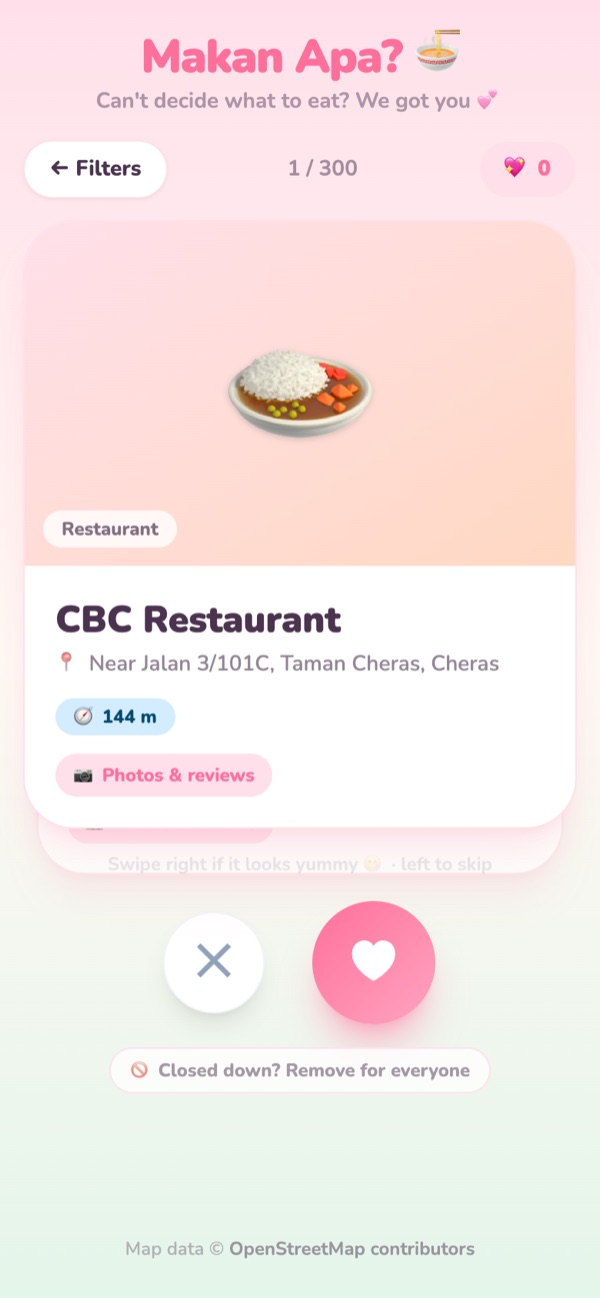
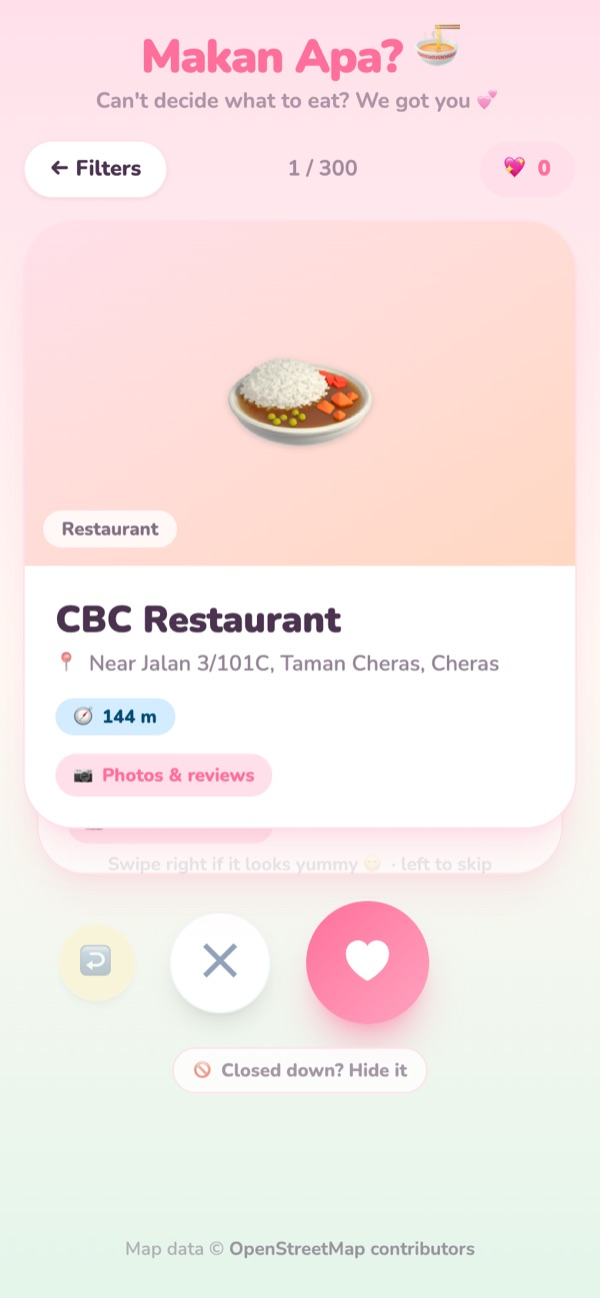
Hide closed places on your own phone instead of for everyone
A shared list meant one person could remove places for all users on purpose.
Now "Closed down? Hide it" hides the place on that phone only (localStorage),
and nothing another user does can hide a place for you. The removal is still
reported to the server (place id, name and type only) so the maintainer can
see which places people say have closed.

Also updates the README and the three screenshots that showed the old label.

diff --git a/src/hooks/useRemovedPlaces.js b/src/hooks/useRemovedPlaces.js
@@ -1,15 +1,17 @@
-import { useEffect, useState } from 'react'
-import { fetchRemoved, reportRemoved, restoreRemovedPlace } from '../services/removed'
-import { mergeRemoved, withEntry, withoutId } from '../utils/removedList'
+import { useState } from 'react'
+import { reportClosed, withdrawReport } from '../services/removed'
+import { withEntry, withoutId } from '../utils/removedList'
 
 // Places removed because they closed down (the free map rarely knows).
-//   - Shared mode: the list lives on our server, so a removal is for EVERYONE.
-//   - Phone-only mode: if the shared list isn't set up (or can't be reached),
-//     the list is kept on this phone in localStorage, so the app still works.
 //
-// The phone's list is also an "outbox": a removal stays in it until the server
-// has confirmed it. So removals made before the shared list existed, or while
-// offline, are sent up the next time the app opens — instead of coming back.
+// The list is PER PHONE: removing a place hides it on this phone only. It used to
+// hide the place for everyone, but then one person could wipe out places for all
+// users on purpose. Your own list is kept in localStorage, so it survives closing
+// the app.
+//
+// A removal is also REPORTED to our server (only the place's id, name and type —
+// nothing about you). Nobody else's app is changed by it; the reports just show
+// which places people say have closed.
 const LOCAL_KEY = 'makan-picker:removed-places'
 
 function loadLocal() {
@@ -29,54 +31,24 @@ function saveLocal(list) {
   }
 }
 
-/** Sends one removal to the server; once it's saved there, it leaves the phone's outbox. */
-function upload(entry) {
-  reportRemoved(entry)
-    .then(() => saveLocal(withoutId(loadLocal(), entry.id)))
-    .catch(() => {}) // still in the outbox -> tried again next time the app opens
-}
-
 export function useRemovedPlaces() {
   const [removed, setRemoved] = useState(loadLocal)
-  const [isShared, setIsShared] = useState(false)
 
-  // Once, when the app opens: load the shared list. If it fails, stay phone-only.
-  useEffect(() => {
-    let cancelled = false
-    fetchRemoved()
-      .then((shared) => {
-        if (cancelled) return
-        const onThisPhone = loadLocal()
-        setRemoved(mergeRemoved(shared, onThisPhone))
-        setIsShared(true)
-
-        // Removals the server doesn't have yet: send them up now.
-        const sharedIds = new Set(shared.map((e) => e.id))
-        onThisPhone.filter((e) => !sharedIds.has(e.id)).forEach(upload)
-        // The rest are already saved for everyone, so they can leave the outbox.
-        saveLocal(onThisPhone.filter((e) => !sharedIds.has(e.id)))
-      })
-      .catch(() => {}) // not set up / offline -> keep the phone-only list
-    return () => {
-      cancelled = true
-    }
-  }, [])
-
-  /** Remove a closed place (for everyone in shared mode). */
+  /** Hide a closed place on this phone. */
   function removePlace(place) {
     const entry = { id: place.id, name: place.name, category: place.category, removedAt: Date.now() }
-    // "Optimistic update": hide it on screen straight away, then tell the server.
     setRemoved((prev) => withEntry(prev, entry))
-    saveLocal(withEntry(loadLocal(), entry)) // kept on the phone until the server confirms
-    if (isShared) upload(entry)
+    saveLocal(withEntry(loadLocal(), entry))
+    // Fire and forget: if the report fails, your own list still hides the place.
+    reportClosed(entry).catch(() => {})
   }
 
-  /** Bring a place back (e.g. someone removed it by mistake). */
+  /** Bring a place back (e.g. you removed it by mistake). */
   function restorePlace(id) {
     setRemoved((prev) => withoutId(prev, id))
     saveLocal(withoutId(loadLocal(), id))
-    if (isShared) restoreRemovedPlace(id).catch(() => {})
+    withdrawReport(id).catch(() => {})
   }
 
-  return { removed, isShared, removePlace, restorePlace }
+  return { removed, removePlace, restorePlace }
 }

diff --git a/src/services/removed.js b/src/services/removed.js
@@ -1,30 +1,27 @@
-// Talks to our /api/removed endpoint: the list of places removed for everyone.
+// Talks to our /api/removed endpoint: reports of places that have closed down.
+//
+// Hiding a place happens on the phone (see hooks/useRemovedPlaces.js). These
+// reports only tell the owner of the app which places people say are closed —
+// they never change what anyone else sees.
 
 const REMOVED_API_URL = '/api/removed' // same website, so no CORS problems
 
-/** @returns {Promise<Array<{ id: string, name: string, category: string, removedAt: number }>>} */
-export async function fetchRemoved() {
-  const response = await fetch(REMOVED_API_URL, { signal: AbortSignal.timeout(8000) })
-  if (!response.ok) throw new Error(`Removed list unavailable (${response.status})`)
-  return (await response.json()).removed
-}
-
-/** Remove a place for everyone. */
-export async function reportRemoved({ id, name, category }) {
+/** Report that a place has closed. Sends the place only — nothing about the person. */
+export async function reportClosed({ id, name, category }) {
   const response = await fetch(REMOVED_API_URL, {
     method: 'POST',
     headers: { 'Content-Type': 'application/json' },
     body: JSON.stringify({ id, name, category }),
     signal: AbortSignal.timeout(8000),
   })
-  if (!response.ok) throw new Error(`Could not remove (${response.status})`)
+  if (!response.ok) throw new Error(`Could not report (${response.status})`)
 }
 
-/** Bring a place back for everyone. */
-export async function restoreRemovedPlace(id) {
+/** Take back a report (the place was restored on this phone). */
+export async function withdrawReport(id) {
   const response = await fetch(`${REMOVED_API_URL}?${new URLSearchParams({ id })}`, {
     method: 'DELETE',
     signal: AbortSignal.timeout(8000),
   })
-  if (!response.ok) throw new Error(`Could not restore (${response.status})`)
+  if (!response.ok) throw new Error(`Could not withdraw the report (${response.status})`)
 }

diff --git a/src/App.jsx b/src/App.jsx
@@ -57,10 +57,10 @@ export default function App() {
   // search's answer is ignored when it finally arrives.
   const searchIdRef = useRef(0)
 
-  // Custom hooks: My Cafes (this phone) and the places removed because they closed
-  // down (shared by everyone once the database is connected — see useRemovedPlaces).
+  // Custom hooks, both kept on this phone: My Cafes, and the places hidden because
+  // they closed down (see useRemovedPlaces).
   const { cafes: savedCafes, addCafes, removeCafe } = useSavedCafes()
-  const { removed, isShared, removePlace, restorePlace } = useRemovedPlaces()
+  const { removed, removePlace, restorePlace } = useRemovedPlaces()
 
   // Derived: the results without removed places. Removing the current card takes it
   // out of this list, so the next card slides into the same position.
@@ -226,7 +226,6 @@ export default function App() {
             restaurants={visibleResults}
             currentIndex={swipeIndex}
             likedCount={likedRestaurants.length}
-            isShared={isShared}
             canUndo={swipeHistory.length > 0}
             onSwipe={handleSwipe}
             onUndo={handleUndoSwipe}
@@ -265,7 +264,6 @@ export default function App() {
         return (
           <ResultScreen
             restaurant={chosenRestaurant}
-            isShared={isShared}
             onBack={() => setScreen(resultBackTo)}
             onRemove={handleRemoveChosen}
             onStartOver={handleStartOver}
@@ -276,7 +274,6 @@ export default function App() {
         return (
           <RemovedScreen
             removed={removed}
-            isShared={isShared}
             onRestore={restorePlace}
             onBack={() => setScreen(SCREENS.FILTER)}
           />

diff --git a/src/screens/RemovedScreen.jsx b/src/screens/RemovedScreen.jsx
@@ -2,16 +2,15 @@ import { categoryStyle } from '../data/categories'
 import { formatTimeAgo } from '../utils/format'
 
 /**
- * Every place someone removed because it closed down. Restore one if it was a mistake.
+ * Every place you removed because it closed down. Restore one if it was a mistake.
  *
  * @param {{
  *   removed: Array<{ id: string, name: string, category: string, removedAt: number }>,
- *   isShared: boolean,
  *   onRestore: (id: string) => void,
  *   onBack: () => void,
  * }} props
  */
-export default function RemovedScreen({ removed, isShared, onRestore, onBack }) {
+export default function RemovedScreen({ removed, onRestore, onBack }) {
   return (
     <div className="flex flex-1 flex-col gap-4">
       <button
@@ -24,9 +23,7 @@ export default function RemovedScreen({ removed, isShared, onRestore, onBack }) 
       <div className="text-center">
         <h2 className="text-2xl font-black text-plum">Removed places 🗑</h2>
         <p className="text-sm text-plum/60">
-          {isShared
-            ? 'Removed for everyone because they closed down. Removed by mistake? Restore it.'
-            : 'Removed on this phone only (the shared list is not set up yet).'}
+          Hidden on this phone because they closed down. Removed by mistake? Restore it.
         </p>
       </div>
 

diff --git a/src/screens/ResultScreen.jsx b/src/screens/ResultScreen.jsx
@@ -6,13 +6,12 @@ import Confetti from '../components/Confetti'
  *
  * @param {{
  *   restaurant: import('../models').Restaurant | null,
- *   isShared?: boolean,
  *   onBack?: () => void,
  *   onRemove?: () => void,
  *   onStartOver: () => void,
  * }} props
  */
-export default function ResultScreen({ restaurant, isShared, onBack, onRemove, onStartOver }) {
+export default function ResultScreen({ restaurant, onBack, onRemove, onStartOver }) {
   if (!restaurant) return null // safety net; shouldn't happen in normal flow
 
   const hasCoords = restaurant.lat != null && restaurant.lng != null
@@ -74,7 +73,7 @@ export default function ResultScreen({ restaurant, isShared, onBack, onRemove, o
             onClick={onRemove}
             className="self-center rounded-full bg-white/80 px-3 py-1.5 text-xs font-extrabold text-plum/50 ring-1 ring-candy-pink-soft transition hover:text-candy-pink active:scale-95"
           >
-            🚫 Closed down? {isShared ? 'Remove for everyone' : 'Remove it'}
+            🚫 Closed down? Hide it
           </button>
         )}
       </div>

diff --git a/src/utils/removedList.test.js b/src/utils/removedList.test.js
@@ -1,5 +1,5 @@
 import { describe, expect, it } from 'vitest'
-import { mergeRemoved, withEntry, withoutId } from './removedList'
+import { withEntry, withoutId } from './removedList'
 
 const a = { id: 'osm-node-1', name: 'A', category: 'cafe', removedAt: 1 }
 const b = { id: 'osm-node-2', name: 'B', category: 'cafe', removedAt: 2 }
@@ -19,20 +19,5 @@ describe('withEntry', () => {
 describe('withoutId', () => {
   it('drops only that place', () => {
     expect(withoutId([a, b, c], b.id)).toEqual([a, c])
-  })
-})
-
-describe('mergeRemoved', () => {
-  it('keeps removals that only this phone knows about', () => {
-    // The bug: the shared list was empty, so phone-only removals came back.
-    expect(mergeRemoved([], [a, b])).toEqual([a, b])
-  })
-
-  it('does not list a place twice when the server already has it', () => {
-    expect(mergeRemoved([a, c], [a, b])).toEqual([b, a, c])
-  })
-
-  it('is just the shared list when the phone has nothing extra', () => {
-    expect(mergeRemoved([a], [])).toEqual([a])
   })
 })

diff --git a/src/screens/SwipeScreen.jsx b/src/screens/SwipeScreen.jsx
@@ -15,7 +15,6 @@ import Confetti from '../components/Confetti'
  *   restaurants: import('../models').Restaurant[],
  *   currentIndex: number,
  *   likedCount: number,
- *   isShared: boolean,
  *   canUndo: boolean,
  *   onSwipe: (r: import('../models').Restaurant, liked: boolean) => void,
  *   onUndo: () => void,
@@ -29,7 +28,6 @@ export default function SwipeScreen({
   restaurants,
   currentIndex,
   likedCount,
-  isShared,
   canUndo,
   onSwipe,
   onUndo,
@@ -208,7 +206,7 @@ export default function SwipeScreen({
           disabled={exit !== null}
           className="self-center rounded-full bg-white/80 px-3 py-1.5 text-xs font-extrabold text-plum/50 ring-1 ring-candy-pink-soft transition hover:text-candy-pink active:scale-95 disabled:opacity-40"
         >
-          🚫 Closed down? {isShared ? 'Remove for everyone' : 'Remove it'}
+          🚫 Closed down? Hide it
         </button>
       )}
     </div>

diff --git a/src/utils/removedList.js b/src/utils/removedList.js
@@ -10,13 +10,3 @@ export function withEntry(list, entry) {
 export function withoutId(list, id) {
   return list.filter((e) => e.id !== id)
 }
-
-/**
- * The shared list (from the server) plus removals that only this phone knows
- * about yet — e.g. ones made before the shared list was set up, or while offline.
- * Without this, those removals would silently come back.
- */
-export function mergeRemoved(shared, onThisPhone) {
-  const sharedIds = new Set(shared.map((e) => e.id))
-  return [...onThisPhone.filter((e) => !sharedIds.has(e.id)), ...shared]
-}

diff --git a/README.md b/README.md
@@ -28,7 +28,7 @@
 - **Useful cards:** distance, address (or nearest road), cuisine, open now / closed now, a *Photos & reviews* link to Google Maps
 - **Go there:** one tap opens directions in Google Maps or Waze
 - **My Cafes:** paste cafes you saved on Instagram / Xiaohongshu and swipe or spin them too
-- **Closed down? Remove it for everyone:** a shared list, with a *Removed places* page to restore mistakes
+- **Closed down? Hide it:** hidden on your phone only, with a *Removed places* page to restore mistakes
 - **Fun while you wait:** a noodle-bowl loading screen with a catch-the-snacks mini game (and your best score)
 - **Pastel candy design**, with "Reduce motion" respected for people who turn it on
 
@@ -40,16 +40,17 @@ flowchart LR
   A -->|/api/places| P[Vercel function<br/>api/places.js]
   P -->|query| O[Overpass<br/>OSM place search]
   P -.->|if busy| M[Backup mirror]
-  A -->|/api/removed| R[Vercel function<br/>api/removed.js]
+  A -->|"closed" report| R[Vercel function<br/>api/removed.js]
   R -->|secret key stays here| S[(Supabase<br/>Postgres)]
 ```
 
 - **Why a server in the middle?** Overpass rejects browser requests from the live site, but accepts server ones. The
   function also checks every input, tries a backup mirror when the main server is busy, and lets Vercel's CDN
   cache answers for a day, so repeat searches are instant.
-- **The shared "closed down" list** lives in Supabase. Only the server holds the secret key, and Row Level Security is on with no
-  public policies. Removals appear straight away (optimistic update). If the server can't be reached, they wait on the phone and are
-  sent later, so nothing is lost.
+- **"Closed down" hiding is per phone.** It used to hide a place for everyone, but one person could then wipe out places for all
+  users on purpose, so each phone now keeps its own hidden list (`localStorage`). A removal still sends an anonymous **report**
+  (the place's id, name and type only) to Supabase, so the maintainer can see which places people say have closed. Only the server
+  holds the database's secret key, and Row Level Security is on with no public policies.
 - **The roulette is honest:** the winner is picked first, then the exact rotation is calculated so the wheel stops on it.
   Tests check every wheel size from 1 to 25 and every pocket.
 
@@ -57,9 +58,10 @@ flowchart LR
 
 | Decision | Why | Trade-off |
 |---|---|---|
-| OpenStreetMap, not Google Places | Free, no API key or credit card | No ratings or photos; the map rarely knows when a place closes (hence the shared removed list) |
+| OpenStreetMap, not Google Places | Free, no API key or credit card | No ratings or photos; the map rarely knows when a place closes (hence "Closed down? Hide it") |
 | Own `/api/places` server function | Overpass blocks the live site's browser requests | A little more code, but also caching and a fallback |
-| Supabase for the removed list | Free Postgres, fits Vercel, easy to inspect | The secret key must stay on the server |
+| Hiding closed places per phone, not for everyone | One person can't wipe out places for all users | Everyone has to hide the same closed place themselves |
+| Supabase for the "closed" reports | Free Postgres, fits Vercel, easy to inspect | The secret key must stay on the server |
 | My Cafes in `localStorage` | No accounts needed | Each device has its own list |
 
 ## Tech
@@ -69,7 +71,7 @@ OpenStreetMap (Nominatim + Overpass) · Vitest · GitHub Actions
 
 ## Engineering highlights
 
-- **70 automated tests** (Vitest), run by GitHub Actions on every pull request; Vercel builds a preview for each PR
+- **72 automated tests** (Vitest), run by GitHub Actions on every pull request; Vercel builds a preview for each PR
 - Every change goes through a branch, a pull request, the checks, a merge, and then a check of the **live** site
 - Server input validation, safe links only (no `javascript:` URLs from map data), and no secrets in the browser
 - Polite use of free services: a queue for Nominatim (max 1 request per second), caching, and only one retry when busy
@@ -84,7 +86,7 @@ npm test         # run the tests
 npm run build    # build like Vercel does
 ```
 
-The shared removed list works without any setup when you run the app locally (it's kept in memory). To connect a real database, create the table
+The "closed" reports work without any setup when you run the app locally (they're kept in memory). To store them in a real database, create the table
 with [`docs/supabase.sql`](docs/supabase.sql) and set these on the server (e.g. via Vercel → Storage → Supabase):
 
 | Variable | What it is |
@@ -95,7 +97,7 @@ with [`docs/supabase.sql`](docs/supabase.sql) and set these on the server (e.g. 
 ## Project structure
 
 ```
-api/            places.js (map search proxy) · removed.js + _removedStore.js (shared removed list)
+api/            places.js (map search proxy) · removed.js + _removedStore.js ("closed" reports)
 src/
   App.jsx       app state, search flow, which screen to show
   screens/      Filter · Swipe · Picks · Roulette · Result · Saved (My Cafes) · Removed
